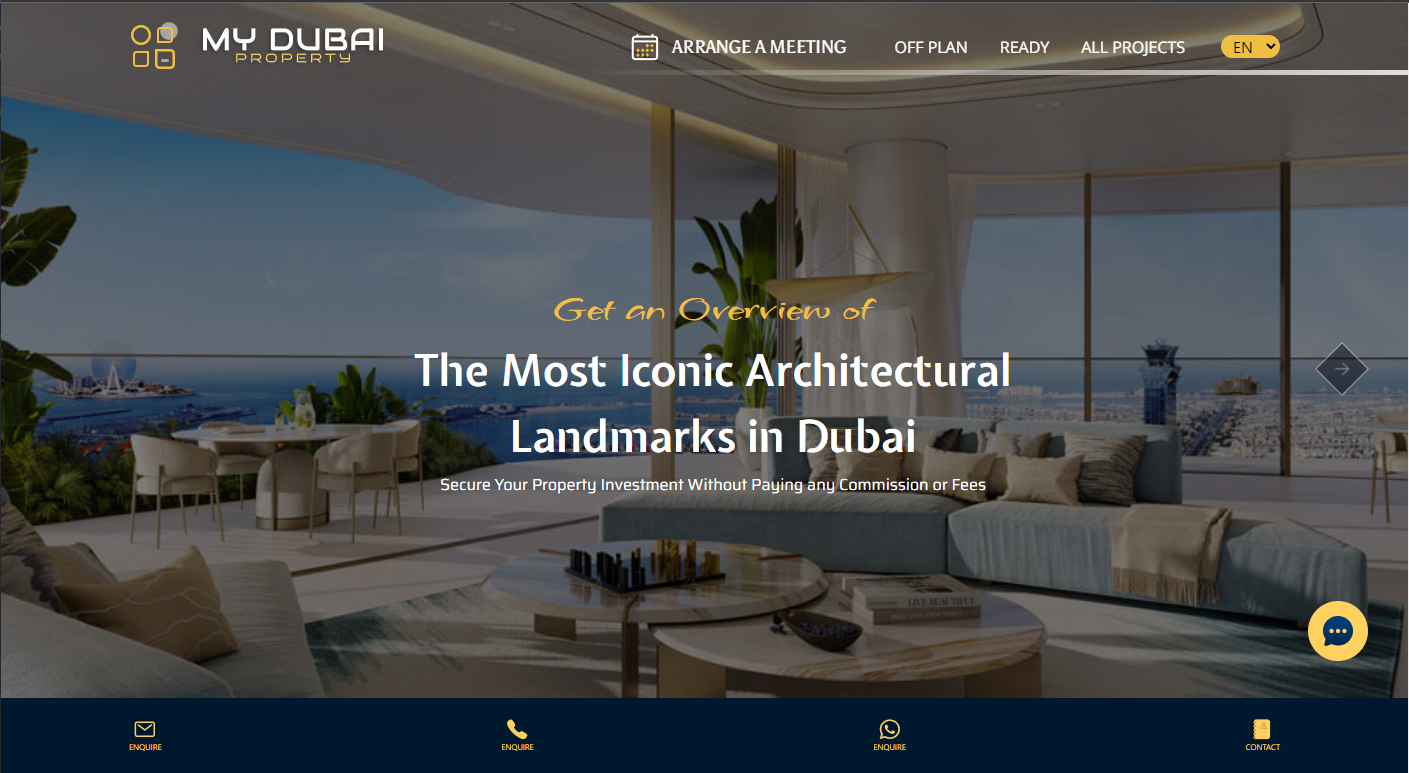
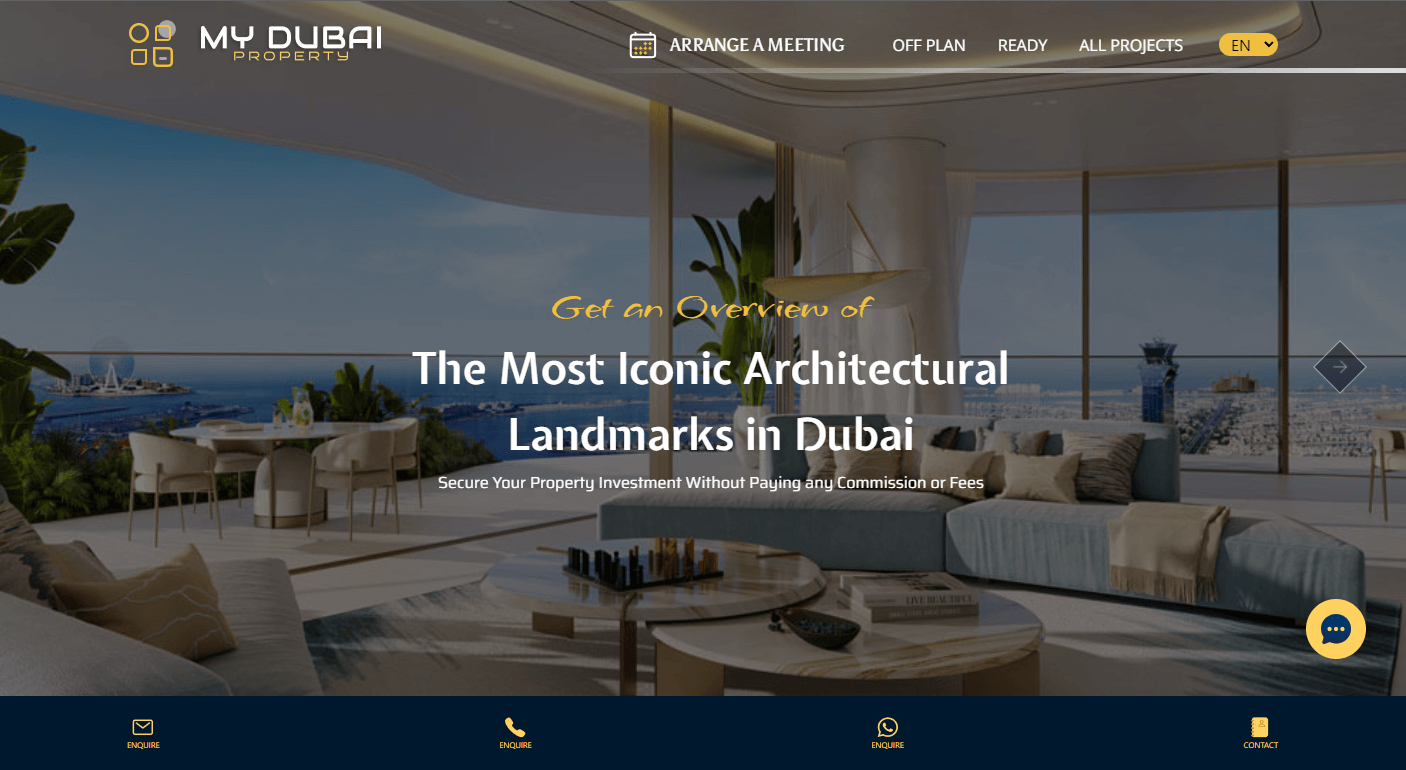
Added compressed images for slider and Added accessibility to buttons

diff --git a/components/ThemeButton.tsx b/components/ThemeButton.tsx
@@ -2,7 +2,7 @@
 
 import { useTheme } from "next-themes";
 import { Menu, Transition } from "@headlessui/react";
-import { Fragment, useEffect, useState } from "react";
+import { Fragment } from "react";
 import {
   ComputerDesktopIcon,
   SunIcon,
@@ -12,13 +12,6 @@ import { MoonIcon } from "@heroicons/react/24/solid";
 
 const ThemeButton = () => {
   const { theme, setTheme } = useTheme();
-  const [mounted, setMounted] = useState(false);
-
-  useEffect(() => {
-    setMounted(true);
-  }, []);
-
-  if (!mounted) return null;
 
   function currentTheme() {
     switch (theme) {
@@ -55,7 +48,11 @@ const ThemeButton = () => {
   return (
     <Menu as="div" className="relative inline-block text-left">
       <div>
-        <Menu.Button className="inline-flex w-full justify-center gap-2 items-center rounded bg-black/30 dark:bg-black/20 p-3 text-sm font-medium text-white hover:bg-black/40 dark:hover:bg-black/70 focus:outline-none focus-visible:ring-2 focus-visible:ring-white/75">
+        <Menu.Button
+          role="button"
+          aria-label="Current Theme"
+          className="inline-flex w-full justify-center gap-2 items-center rounded bg-black/30 dark:bg-black/20 p-3 text-sm font-medium text-white hover:bg-black/40 dark:hover:bg-black/70 focus:outline-none focus-visible:ring-2 focus-visible:ring-white/75"
+        >
           {currentTheme()}
         </Menu.Button>
       </div>
@@ -73,6 +70,8 @@ const ThemeButton = () => {
             <Menu.Item>
               {({ active }) => (
                 <button
+                  role="button"
+                  aria-label="System Theme"
                   onClick={() => setTheme("system")}
                   className={`${
                     active ? "bg-violet-500 text-white" : "text-gray-900"
@@ -89,6 +88,8 @@ const ThemeButton = () => {
             <Menu.Item>
               {({ active }) => (
                 <button
+                  role="button"
+                  aria-label="Light Theme"
                   onClick={() => setTheme("light")}
                   className={`${
                     active ? "bg-violet-500 text-white" : "text-gray-900"
@@ -105,6 +106,8 @@ const ThemeButton = () => {
             <Menu.Item>
               {({ active }) => (
                 <button
+                  role="button"
+                  aria-label="Dark Theme"
                   onClick={() => setTheme("dark")}
                   className={`${
                     active ? "bg-violet-500 text-white" : "text-gray-900"

diff --git a/components/HomePageSlider.tsx b/components/HomePageSlider.tsx
@@ -7,12 +7,16 @@ const imageSourcesDesktop = [
   "/project_1.png",
   "/project_2.png",
   "/project_3.png",
+  "/project_4.png",
+  "/project_5.png",
 ];
 
 const imageSourcesMobile = [
   "/project_1_mb.png",
   "/project_2_mb.png",
   "/project_3_mb.png",
+  "/project_4_mb.png",
+  "/project_5_mb.png",
 ];
 
 const HomePageSlider = () => {
@@ -31,18 +35,20 @@ const HomePageSlider = () => {
   }, []);
 
   return (
-    <section className="h-[75vh] lg:h-screen w-full flex justify-center">
+    <section className="h-[80vh] lg:h-screen w-full flex justify-center">
       <div className="xl:bg-[url('/mac_frame.png')] bg-no-repeat bg-none w-full z-10 ml-[3%] flex justify-center mb-16">
         <div className="w-full relative flex justify-center">
           <Image
+            priority
             src={imageSourcesDesktop[currentImageIndex] || "/project_1.png"}
             height={400}
             width={944}
             className="hidden xl:block absolute h-[598px] top-[28px] left-[128px] rounded"
             alt="macbook-xl-image"
           />
-          <div className="absolute lg:-left-[1%] left-[0.5%] top-0 xl:top-32 w-full flex justify-center xl:w-[25%]">
+          <div className="absolute lg:-left-[1%] -left-[0.5%] top-0 xl:top-32 w-full flex justify-center xl:w-[25%]">
             <Image
+              priority
               src={"/iphone_frame.png"}
               height={400}
               width={480}
@@ -50,7 +56,8 @@ const HomePageSlider = () => {
               alt="iphone-lg-frame"
             />
             <Image
-              src={imageSourcesMobile[currentImageIndex]}
+              priority
+              src={imageSourcesMobile[currentImageIndex] || "/project_1_mb.png"}
               height={300}
               width={300}
               className="absolute left-[15%] md:left-[32.5%] xl:left-[6%] top-[6%] w-[70%] md:w-[35%] xl:w-[88%] h-[92%] rounded"

diff --git a/components/NavBar.tsx b/components/NavBar.tsx
@@ -10,7 +10,7 @@ const NavBar = () => {
   return (
     <nav className="bg-white/90 backdrop-blur-sm dark:bg-slate-900/20 dark:text-gray-50 dark:ring-slate-800/80 px-2 w-full py-4 fixed top-0 left-0 ring-1 ring-slate-300 z-50">
       <div className="flex items-center justify-between max-w-7xl mx-auto">
-        <Link href="/" className="flex items-center gap-4">
+        <Link role="link" href="/" className="flex items-center gap-4">
           <Image
             src="/logo.svg"
             className="rounded-full"
@@ -21,19 +21,20 @@ const NavBar = () => {
           <h1>Arshad Chowdhury</h1>
         </Link>
         <div className="hidden lg:flex items-center gap-4">
-          <Link className={linkStyles} href={"/about"}>
+          <Link role="link" className={linkStyles} href={"/about"}>
             About
           </Link>
-          <Link className={linkStyles} href={"/projects"}>
+          <Link role="link" className={linkStyles} href={"/projects"}>
             Projects
           </Link>
-          <Link className={linkStyles} href={"/services"}>
+          <Link role="link" className={linkStyles} href={"/services"}>
             Services
           </Link>
-          <Link className={linkStyles} href={"/youtube"}>
+          <Link role="link" className={linkStyles} href={"/youtube"}>
             YouTube
           </Link>
           <Link
+            role="link"
             className={
               "px-6 py-2 rounded-md font-semibold text-gray-50 bg-violet-500 dark:bg-violet-700 hover:bg-violet-700 dark:hover:bg-violet-800 hover:transform hover:scale-[105%]"
             }

diff --git a/components/RandomAdvice.tsx b/components/RandomAdvice.tsx
@@ -30,7 +30,7 @@ const RandomAdvice = () => {
 
   return (
     <section className="flex flex-col items-center gap-8 my-10">
-      <h3 className="text-3xl mt-4 font-semibold text-center">
+      <h2 className="text-3xl mt-4 font-semibold text-center">
         Here&apos;s an advice for you, generated by{" "}
         <Link
           target="_blank"
@@ -39,7 +39,7 @@ const RandomAdvice = () => {
         >
           Advice Slip
         </Link>
-      </h3>
+      </h2>
       <div className="dark:bg-gray-600 bg-gray-200 rounded-lg lg:w-4/5 w-full py-12 flex flex-col items-center justify-center gap-14">
         <div className="flex flex-col items-center gap-6 px-6">
           <span className="text-teal-500 tracking-widest text-lg">{`Advice Number : #${
@@ -52,6 +52,8 @@ const RandomAdvice = () => {
         <div className="relative w-[90%] mx-auto my-8">
           <hr className="w-full border-gray-400" />
           <button
+            role="button"
+            aria-label="Dice"
             onClick={fetchData}
             disabled={disabled}
             className={`bg-gray-300 hover:bg-teal-500 absolute -bottom-7 left-[45.5%] lg:left-[47%] p-3 rounded-full ${

diff --git a/components/EverythingNeeded.tsx b/components/EverythingNeeded.tsx
@@ -56,10 +56,10 @@ type ServicesDataTypes = {
 };
 
 const EverythingNeeded = () => (
-  <section className="flex flex-col gap-16 items-center mb-10">
-    <h1 className="text-2xl lg:text-4xl text-center font-semibold">
+  <section className="flex flex-col gap-16 items-center lg:my-10">
+    <h2 className="text-2xl lg:text-4xl text-center font-semibold">
       My services to expand your business
-    </h1>
+    </h2>
     <div className="grid gap-8 grid-cols-1 md:grid-cols-2 lg:grid-cols-3">
       {servicesData.map((serviceData: ServicesDataTypes, index: number) => (
         <div key={index} className="flex gap-4">
@@ -67,7 +67,7 @@ const EverythingNeeded = () => (
             {serviceData.icon}
           </div>
           <div className="flex flex-col gap-4">
-            <h2 className="text-2xl font-semibold">{serviceData.title}</h2>
+            <h3 className="text-2xl font-semibold">{serviceData.title}</h3>
             <p>
               {serviceData.content.length > 100
                 ? serviceData.content.slice(0, 100).concat("...")

diff --git a/components/GetStarted.tsx b/components/GetStarted.tsx
@@ -2,9 +2,9 @@ import Link from "next/link";
 
 const GetStarted = () => (
   <section className="flex flex-col gap-4 lg:gap-6 h-[24rem] lg:h-[28rem] justify-end text-center items-center my-10">
-    <h4 className="font-semibold text-base lg:text-2xl">
+    <span className="font-semibold text-base lg:text-2xl">
       Code Create Captivate
-    </h4>
+    </span>
     <h1 className="font-semibold text-3xl lg:text-5xl">
       I build captivating websites that users love
     </h1>
@@ -13,6 +13,7 @@ const GetStarted = () => (
       <span>Explore my portfolio and let&apos;s make it happen together</span>
     </p>
     <Link
+      role="link"
       href={"/contact"}
       className="font-bold bg-slate-300 dark:bg-slate-100 px-6 py-2 rounded-md text-black hover:transform hover:scale-[115%]"
     >

diff --git a/components/Testimonials.tsx b/components/Testimonials.tsx
@@ -48,9 +48,9 @@ type TestimonialDataTypes = {
 
 const Testimonials = () => (
   <section className="flex flex-col items-center mx-auto gap-12">
-    <h1 className="text-xl lg:text-4xl text-center font-semibold py-4">
+    <h2 className="text-xl lg:text-4xl text-center font-semibold py-4">
       Testimonials{" "}
-    </h1>
+    </h2>
     <div className="lg:w-4/5 w-full grid grid-flow-row-dense gap-14">
       {testimonialsData.map((data: TestimonialDataTypes, index: number) => (
         <div

diff --git a/components/ContactMe.tsx b/components/ContactMe.tsx
@@ -4,7 +4,7 @@ import { SocialIcon } from "react-social-icons";
 
 const ContactMe = () => (
   <section className="p-10 flex flex-col gap-4 items-center text-center my-10">
-    <h3 className="text-3xl">Contact me on other platforms</h3>
+    <h2 className="text-3xl">Contact me on other platforms</h2>
     <p className="flex justify-center flex-wrap">
       <span>&nbsp;&bull;&nbsp; Infinite Learner</span>
       <span> &nbsp;&bull;&nbsp; Tech Alchemist </span>

diff --git a/app/projects/page.tsx b/app/projects/page.tsx
@@ -1,0 +1,7 @@
+import React from "react";
+
+const ProjectsPage = () => {
+  return <div>page</div>;
+};
+
+export default ProjectsPage;

diff --git a/app/services/page.tsx b/app/services/page.tsx
@@ -1,0 +1,7 @@
+import React from "react";
+
+const ServicesPage = () => {
+  return <div>page</div>;
+};
+
+export default ServicesPage;

diff --git a/app/contact/page.tsx b/app/contact/page.tsx
@@ -1,0 +1,7 @@
+import React from "react";
+
+const ContactPage = () => {
+  return <div>page</div>;
+};
+
+export default ContactPage;

diff --git a/app/youtube/page.tsx b/app/youtube/page.tsx
@@ -1,0 +1,7 @@
+import React from "react";
+
+const YoutubePage = () => {
+  return <div>page</div>;
+};
+
+export default YoutubePage;
